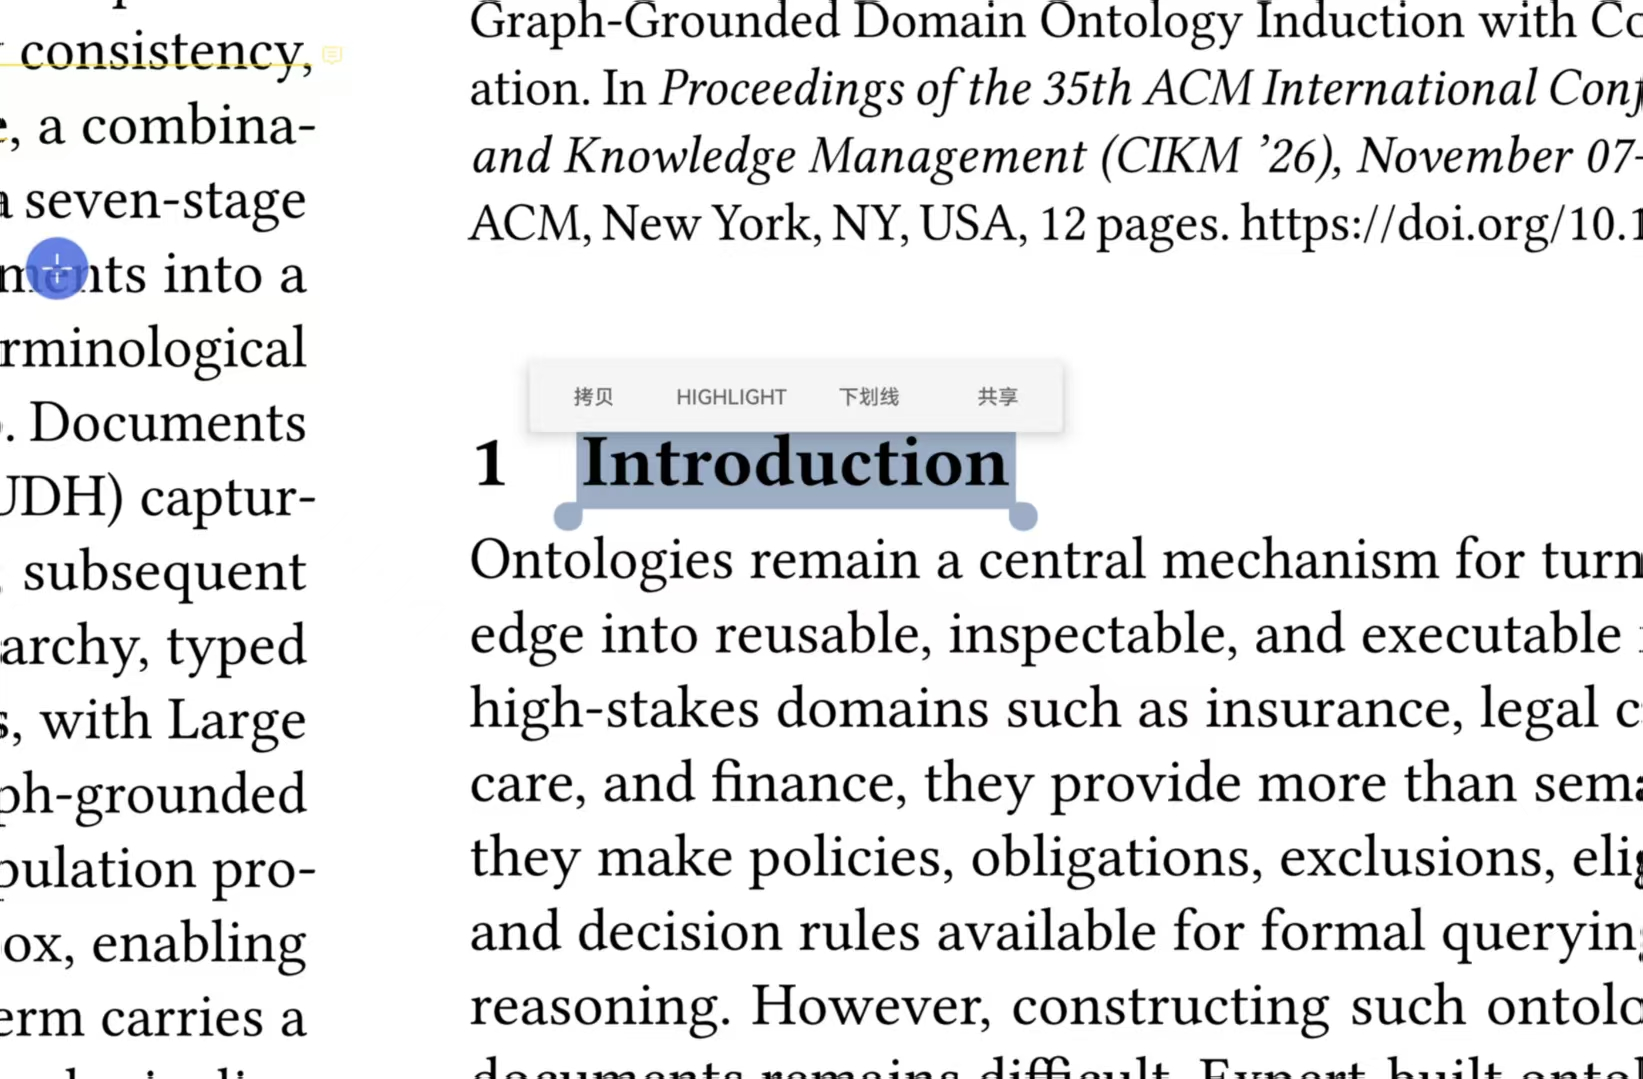
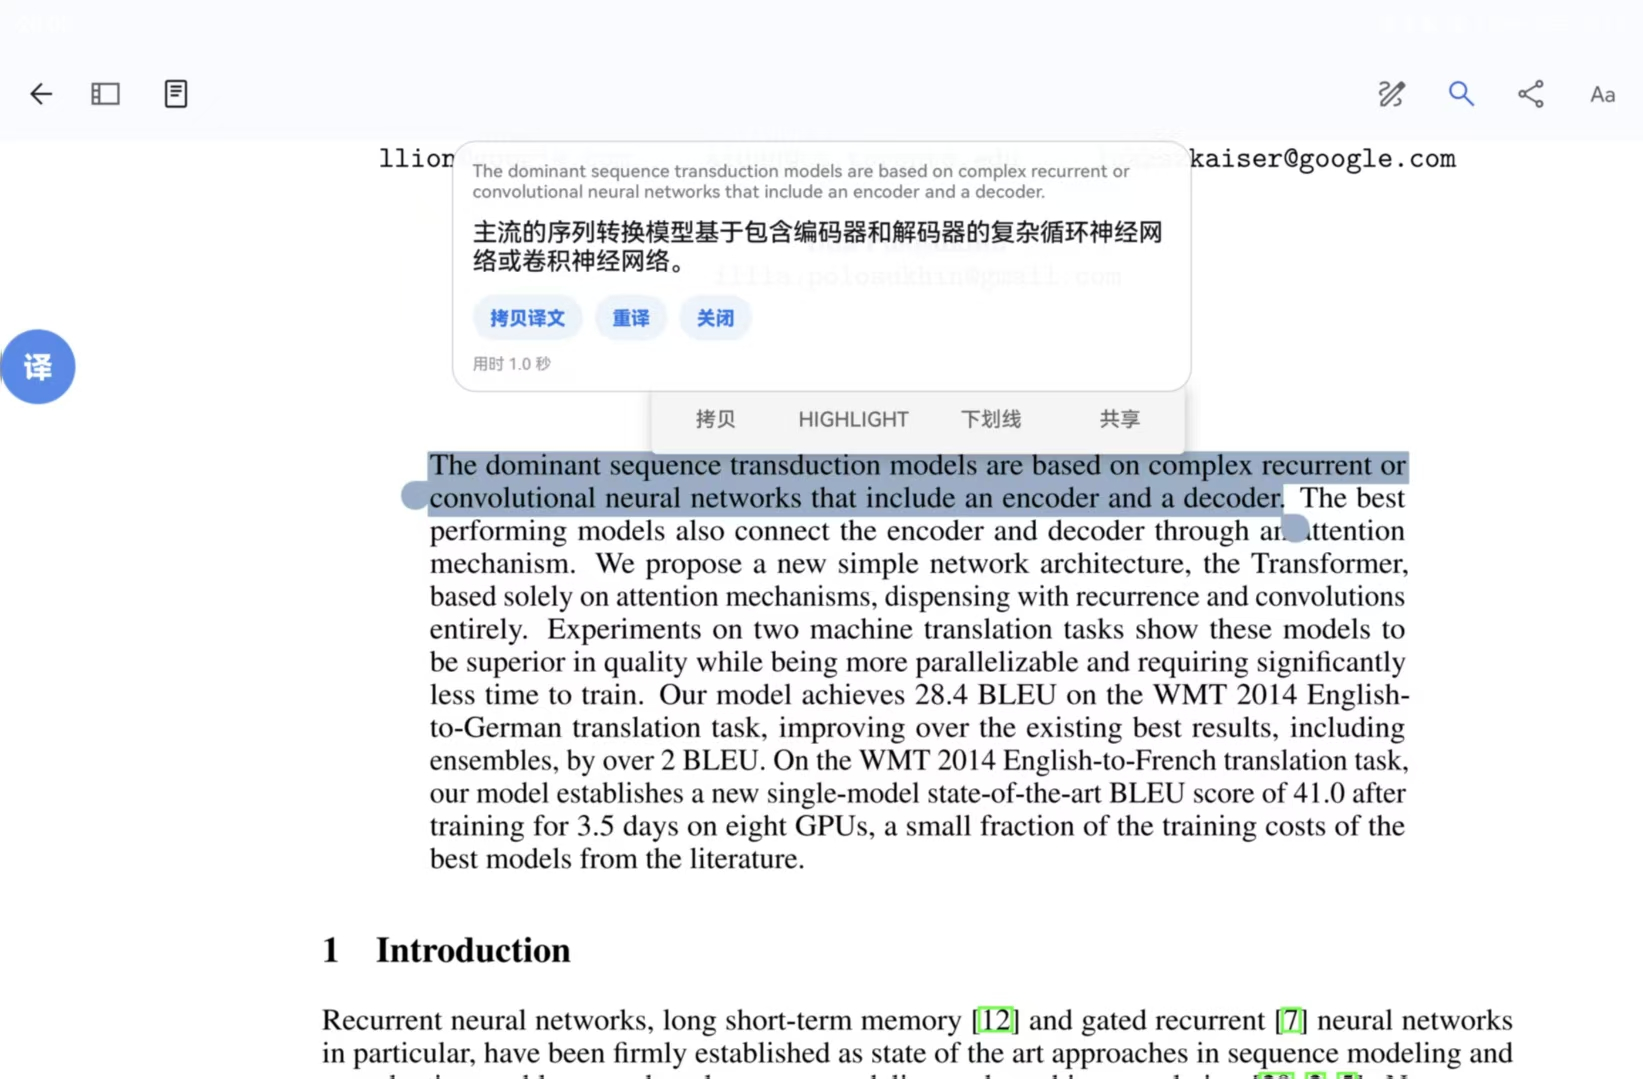
新增中文版 README，两份加语言切换链接

diff --git a/README.zh-CN.md b/README.zh-CN.md
@@ -1,0 +1,108 @@
+# 悬浮译 · XuanFuYi
+
+[English](README.md) | 中文
+
+一个给鸿蒙 / 安卓平板用的悬浮翻译小工具，为在 Zotero 里读外文文献而做。
+
+用笔选中文字，点「拷贝」，再点屏幕上的悬浮球，译文就会浮在 Zotero 上层，可以直接粘回笔记里。
+
+![截图](docs/screenshot.jpg)
+
+- 不需要账号，不收集任何数据。应用不会改动 Zotero 的内容，只读你刚复制的那段文字。
+- 两种翻译引擎：免费公开接口（不用配置），或者任何 OpenAI 兼容服务（质量更好，用自己的密钥）。
+- 密钥只存在本机，安装包里不含任何密钥。
+
+## 安装
+
+下载 `dist/悬浮译.apk`，拷到平板安装即可。支持安卓 8.0 及以上。
+
+鸿蒙还需要额外放行几项权限，悬浮球才正常。完整步骤见 [安装与使用说明.md](安装与使用说明.md)，要点：
+
+- 悬浮窗（显示在其他应用上层），悬浮球必需
+- 后台弹出界面（华为 / 鸿蒙特有）
+- 应用启动管理改成手动：允许自启动、关联启动、后台活动
+- 电池优化设为「不受限制」
+- 允许通知
+
+## 怎么用
+
+1. 用笔在 Zotero 里选中一个词、一句话或一整段。
+2. 点弹出菜单里的「拷贝」。
+3. 点屏幕上的蓝色「译」悬浮球。
+4. 弹出气泡卡片：原文加译文，下面有「拷贝译文 / 重译 / 关闭」。
+
+小技巧：
+
+- 拖动悬浮球换位置；长按悬浮球打开设置页。
+- 悬浮球大小、气泡宽度、译文字号都能在设置里调。
+- 也可以通过系统的「共享」把文字发过来。
+## 翻译引擎
+
+免费公开接口（默认）：先用 MyMemory，失败时用 Google 的公开接口兜底。不用注册，但句子长了容易失败，质量一般。
+
+OpenAI 兼容接口：任何支持 OpenAI 接口格式的服务都能用。
+
+| 填写项 | 例子 |
+| --- | --- |
+| Base URL | https://api.deepseek.com/v1 或 https://tokendance.space/gateway/v1 |
+| 密钥 | 你自己在那个平台申请的密钥 |
+| 模型 | deepseek-chat、glm-4.5-air、qwen3.5-flash |
+
+Base URL 填到版本号那一层就行，后面的 /chat/completions 应用会自己接上。
+
+译文是边生成边显示的，通常一秒左右就出第一个字，气泡底部还会显示这一句花了多少秒。翻译选小尺寸的 flash 类模型最快；名字里带 max、pro 的，以及会先思考一轮的模型，慢好几倍但质量提升有限。
+
+## 自己打包
+
+需要 Windows 加 PowerShell 5.1 以上，以及 JDK 8 以上（脚本从 JAVA_HOME 里找 java / javac）。不需要 Android Studio，不需要 Gradle，也不用装 SDK。
+
+```powershell
+# 1) 下载安卓打包工具（约 120MB）
+powershell -ExecutionPolicy Bypass -File fetch-tools.ps1
+
+# 2) 打包，产物在 dist\悬浮译.apk
+powershell -ExecutionPolicy Bypass -File build.ps1
+```
+
+没设 JAVA_HOME 的话：
+
+```powershell
+$env:JAVA_HOME = "C:\develop\jdk-21"
+```
+
+已经有 Android SDK 的话，可以直接指过去，不用下载：
+
+```powershell
+build.ps1 -BuildTools "D:\sdk\build-tools\34.0.0" -AndroidJar "D:\sdk\platforms\android-34\android.jar" -R8Jar "D:\sdk\r8.jar"
+```
+
+签名：默认用 keystore/xuanfuyi.keystore（别名 lingo，密码 123456），没有会自动生成，而且被 .gitignore 排除，只存在你本机，务必留好。安卓只接受同一个签名的覆盖安装，密钥丢了或者换了，老用户必须先卸载才能装新版。正式发布请换成自己的密钥，用 -KsPath、-KsAlias、-KsPass 指定。
+
+## 目录结构
+
+- app/AndroidManifest.xml，权限与组件声明
+- app/res/，应用名与图标
+- app/src/com/lingo/bubble/Prefs.java，设置项存取
+- app/src/com/lingo/bubble/Translator.java，翻译引擎（免费接口加 OpenAI 兼容，SSE 流式）
+- app/src/com/lingo/bubble/BubbleService.java，前台服务：悬浮球与译文气泡
+- app/src/com/lingo/bubble/ClipActivity.java，透明页面，后台读不到剪贴板时走这条路
+- app/src/com/lingo/bubble/ShareActivity.java，接收「共享」过来的文字
+- app/src/com/lingo/bubble/MainActivity.java，设置页
+- app/src/com/lingo/bubble/BootReceiver.java，可选的开机自启
+- dist/，预编译 APK
+- 安装与使用说明.md，详细的中文安装与使用教程
+
+## 隐私
+
+你选中的文字只会发给你选择的引擎：公开翻译接口，或者（用 OpenAI 兼容接口时）Base URL 指向的那个服务商或中转。没有统计，没有埋点，没有账号。
+
+## 已知限制
+
+- 翻译方向自动判断：含中文、日文、韩文的译成英文，其余译成中文。
+- 单次请求上限 4000 字符。
+- 免费接口偶尔会限流，或者对长文本失败。
+- 鸿蒙对后台应用管得很严。悬浮球总是消失的话，回去检查应用启动管理那几项。
+
+## 开源协议
+
+MIT，见 [LICENSE](LICENSE)。

diff --git a/README.md b/README.md
@@ -1,5 +1,7 @@
 # XuanFuYi · 悬浮译
 
+[English](README.md) | [中文](README.zh-CN.md)
+
 A tiny floating translator for HarmonyOS and Android tablets, built for reading foreign-language
 papers in Zotero.
 
